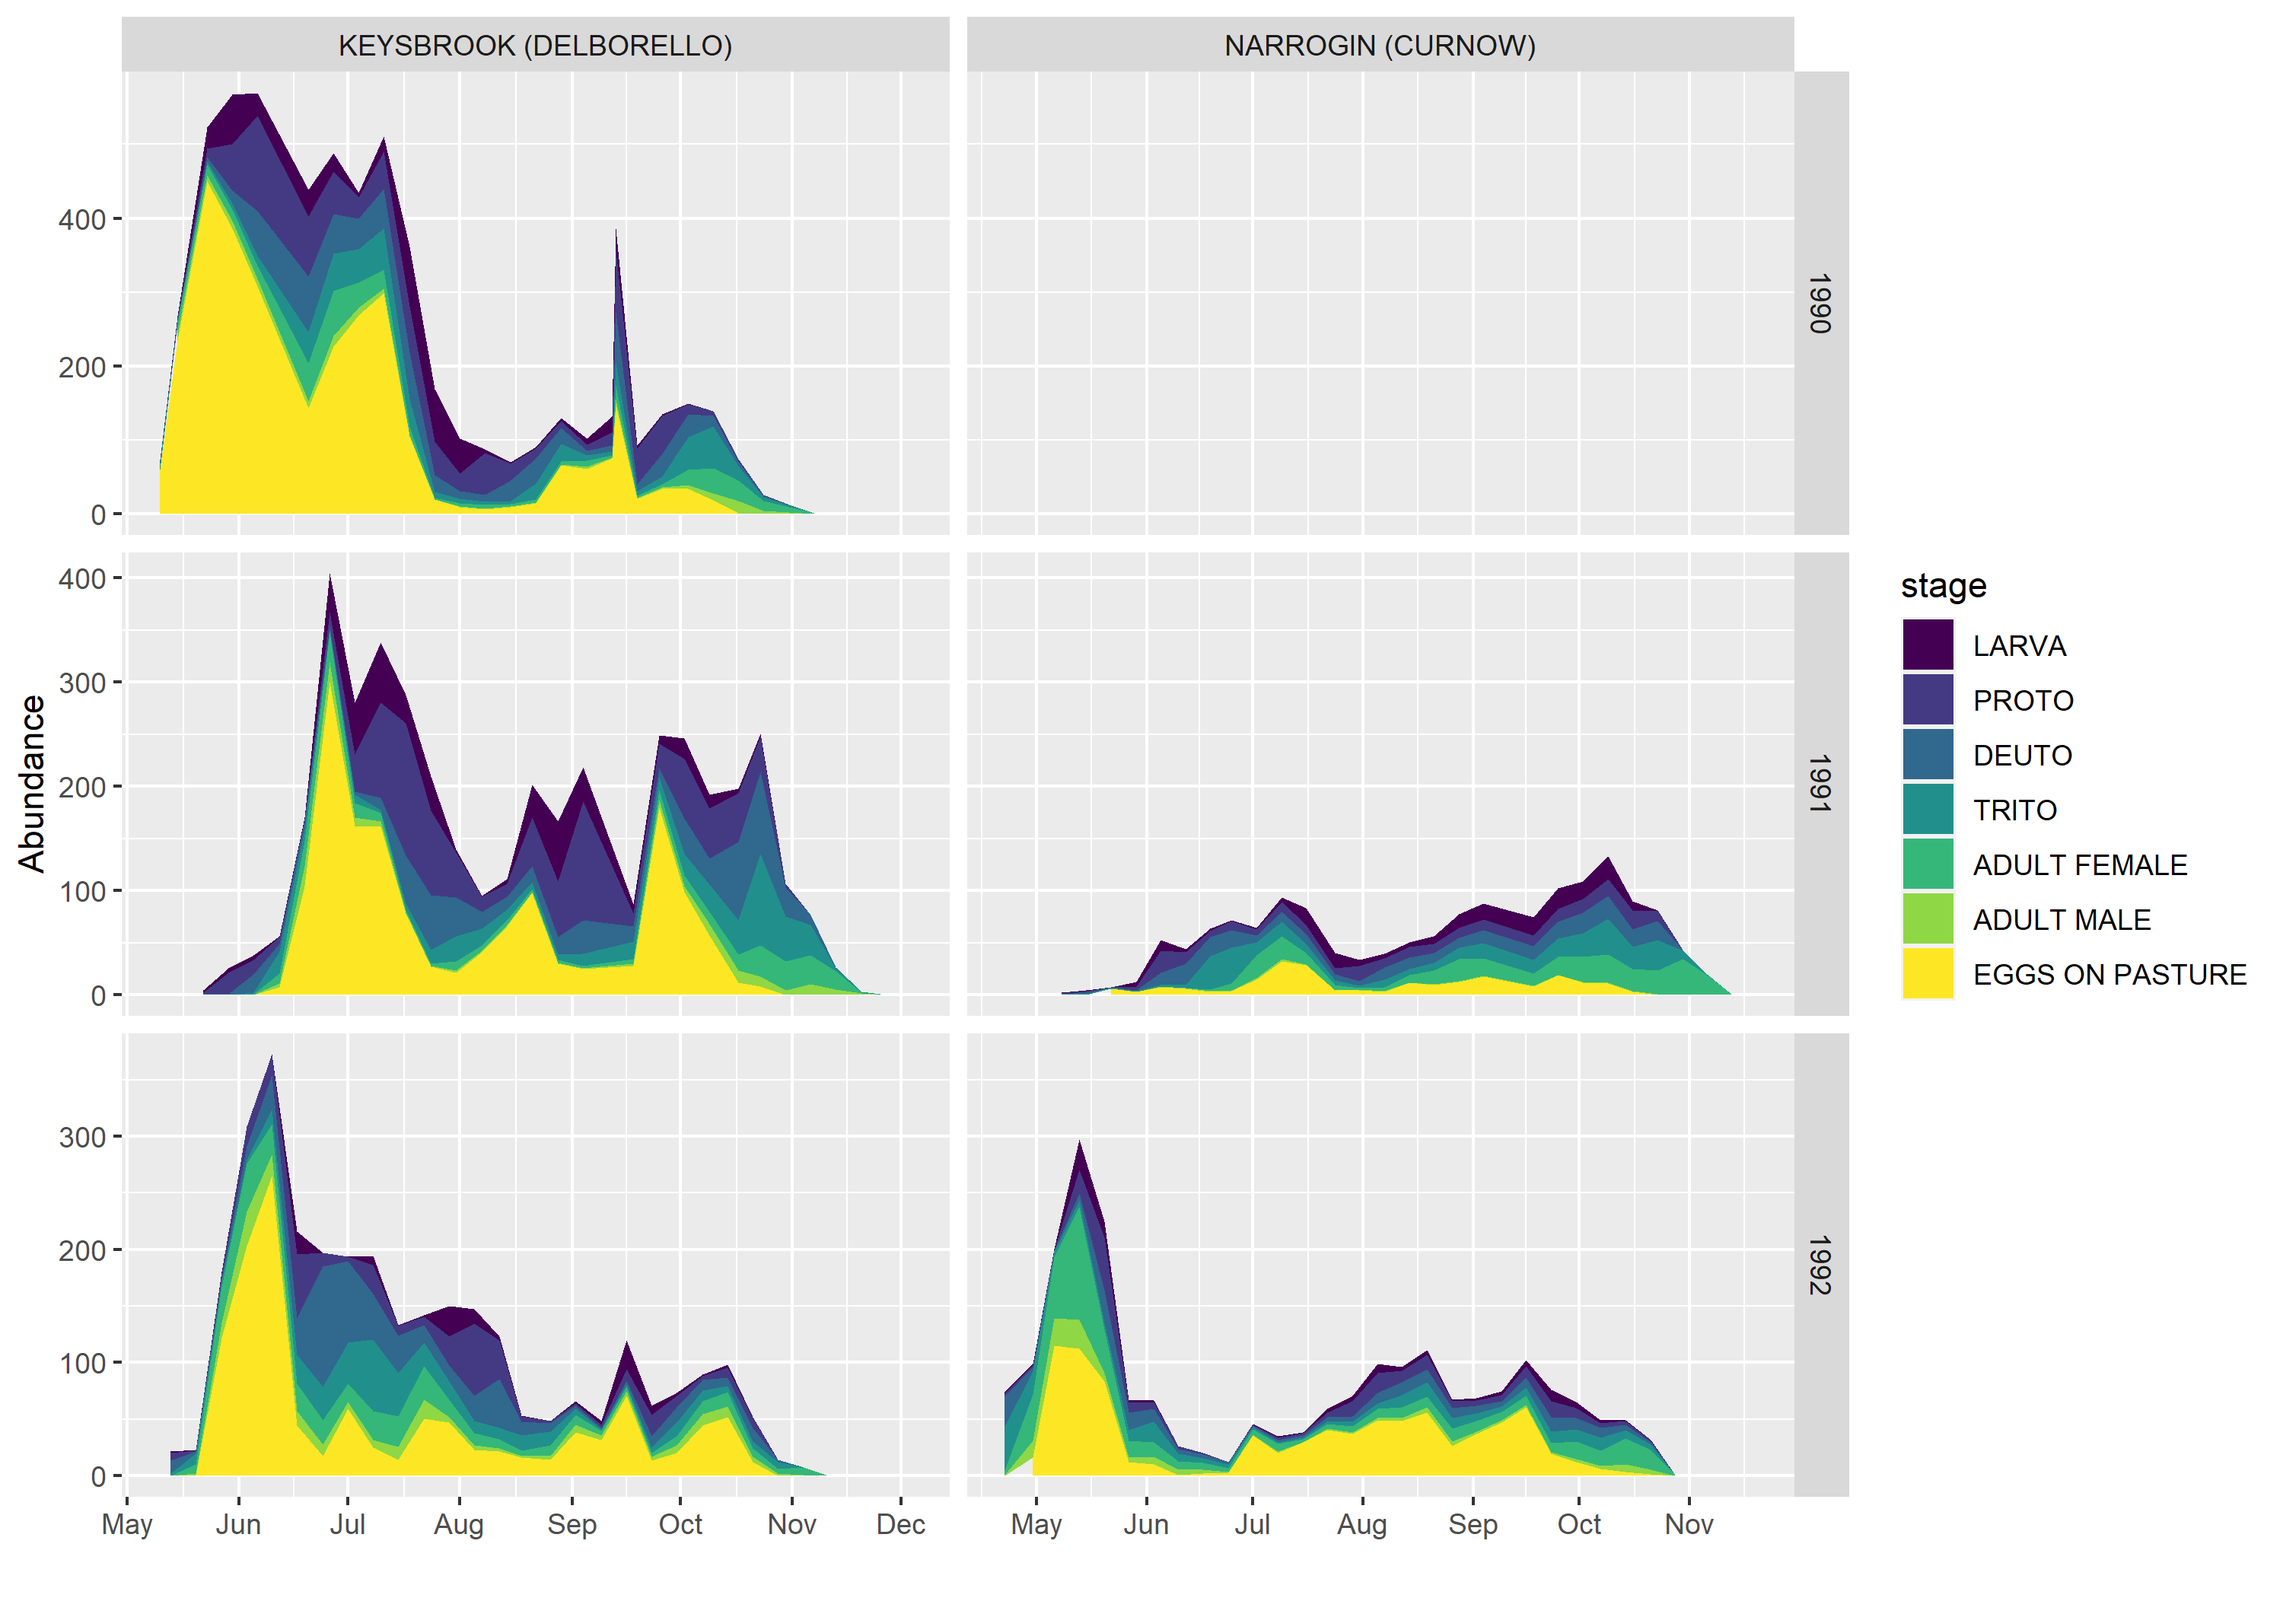
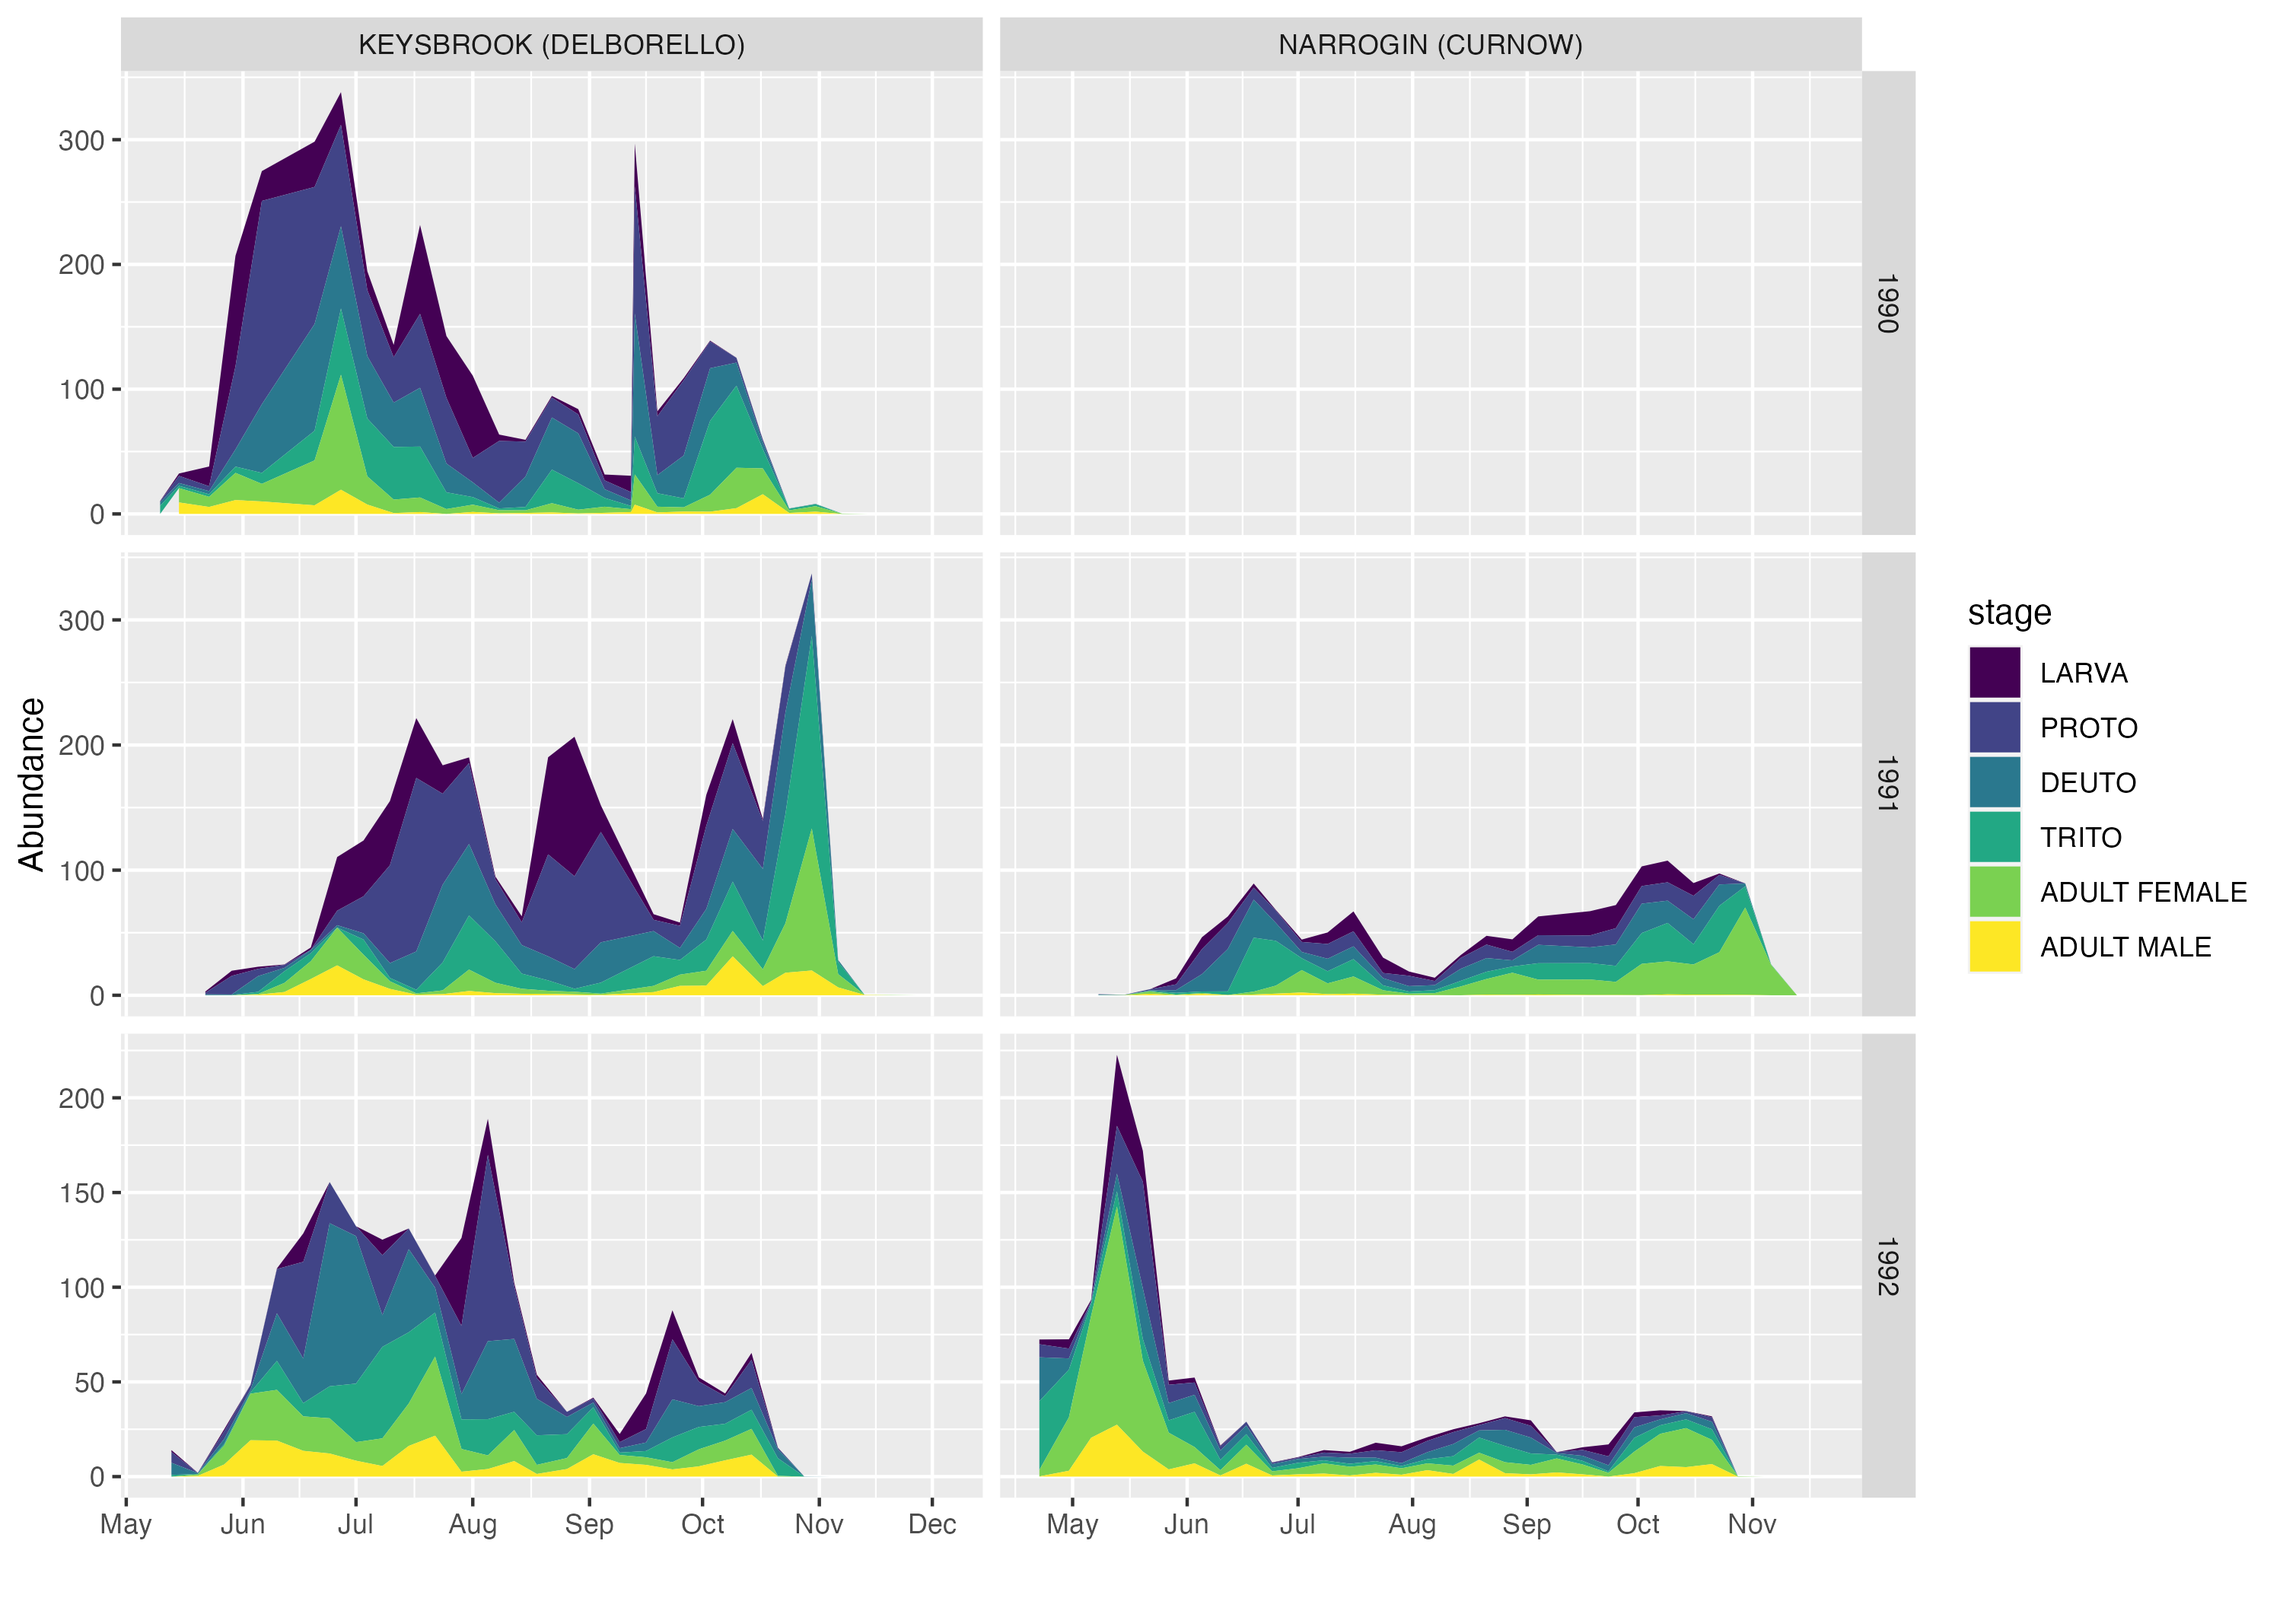
model fit to 2 site across 3 years with reasonable parameter estimates

diff --git a/README.md b/README.md
@@ -1,2 +1,4 @@
 # RLEM-life-history
 The life history of the redlegged earth mite
+
+[life history](./plots/lifehistorymite.png)
